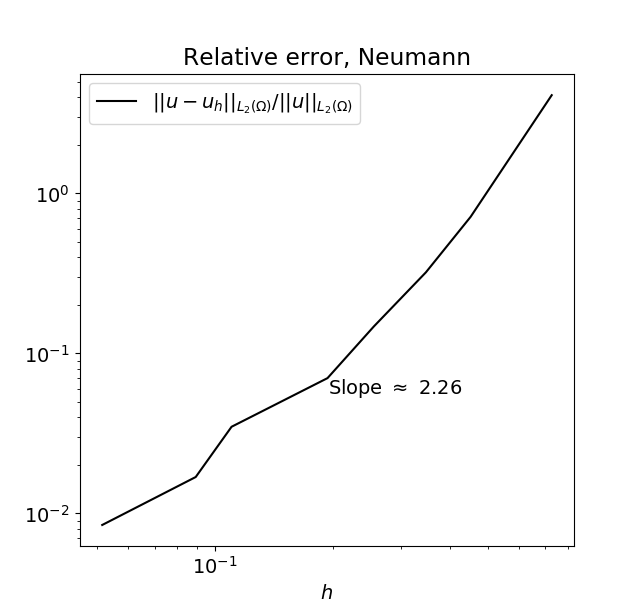
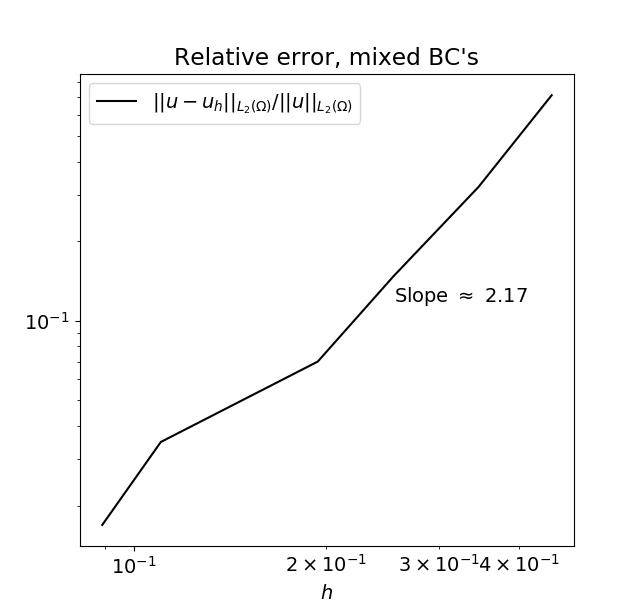
Refinement of convergence plotting

diff --git a/project_1/convergence_plots.py b/project_1/convergence_plots.py
@@ -48,7 +48,7 @@ def dirichlet_convergence(show=True, quad_points=4):
 
     Es = []
     hs = []
-    Ns = [20, 40, 80, 160, 320, 640, 1280, 2560]
+    Ns = [40, 80, 160, 320, 640, 1280]
     for N in Ns:
         print(f"Dirichlet: N = {N}")
 
@@ -74,9 +74,9 @@ def dirichlet_convergence(show=True, quad_points=4):
 
     plt.figure()
     plt.loglog(hs, Es_rel, 'k-', label=r"$||u - u_h||_{L_2(\Omega)} / ||u||_{L_2(\Omega)}$")
-    plt.text(hs[4], 0.8*Es_rel[4], fr"Slope $\approx$ {betaD:.2f}")
+    plt.text(hs[2], 0.8*Es_rel[2], fr"Slope $\approx$ {betaD:.2f}")
     plt.xlabel("$h$")
-    plt.title("Relative error, Dirichlet")
+    plt.title("Relative error, Dirichlet BC's")
     plt.legend()
 
     if show:
@@ -113,7 +113,7 @@ def neumann_convergence(show=True, quad_points=4):
 
     Es = []
     hs = []
-    Ns = [20, 40, 80, 160, 320, 640, 1280, 2560]
+    Ns = [40, 80, 160, 320, 640, 1280]
     for N in Ns:
         print(f"Neumann: N = {N}")
 
@@ -139,9 +139,9 @@ def neumann_convergence(show=True, quad_points=4):
 
     plt.figure()
     plt.loglog(hs, Es_rel, 'k-', label=r"$||u - u_h||_{L_2(\Omega)} / ||u||_{L_2(\Omega)}$")
-    plt.text(hs[4], 0.8*Es_rel[4], fr"Slope $\approx$ {betaN:.2f}")
+    plt.text(hs[2], 0.8*Es_rel[2], fr"Slope $\approx$ {betaN:.2f}")
     plt.xlabel("$h$")
-    plt.title("Relative error, Neumann")
+    plt.title("Relative error, mixed BC's")
     plt.legend()
 
 
